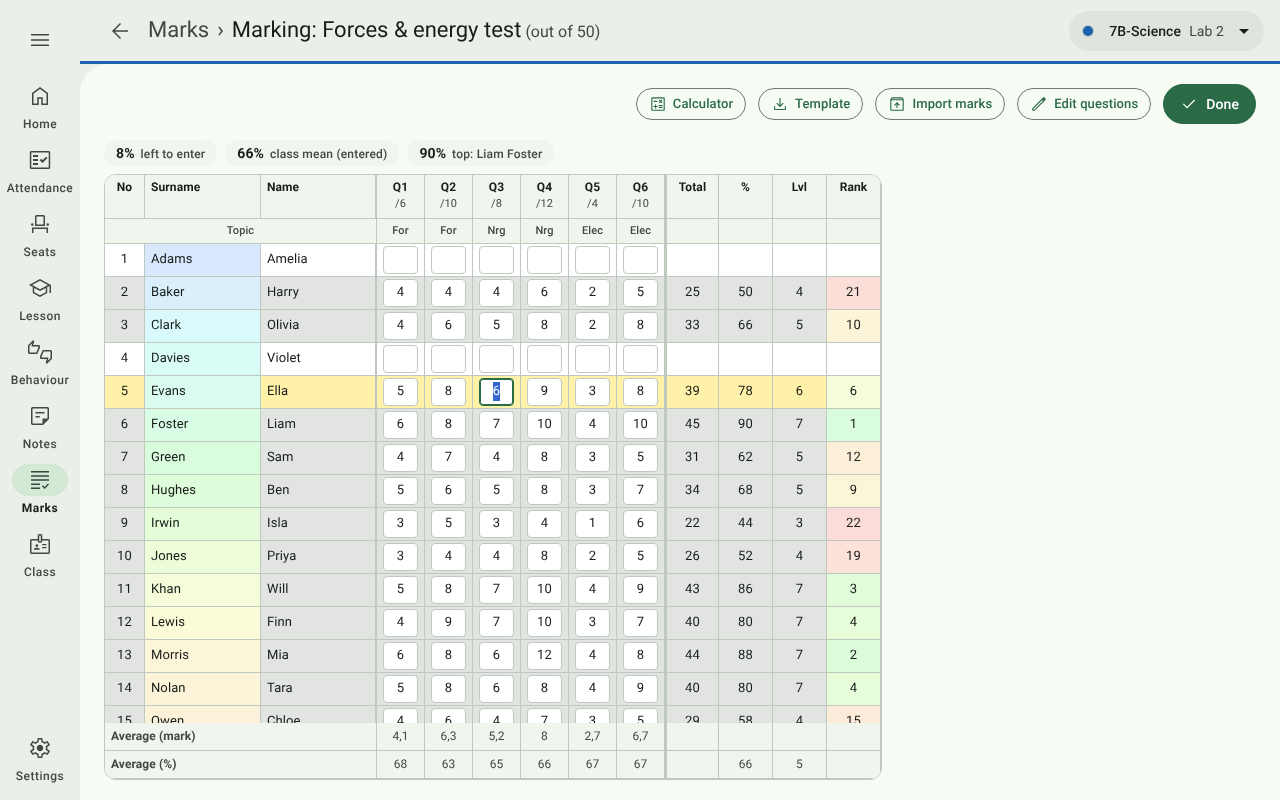
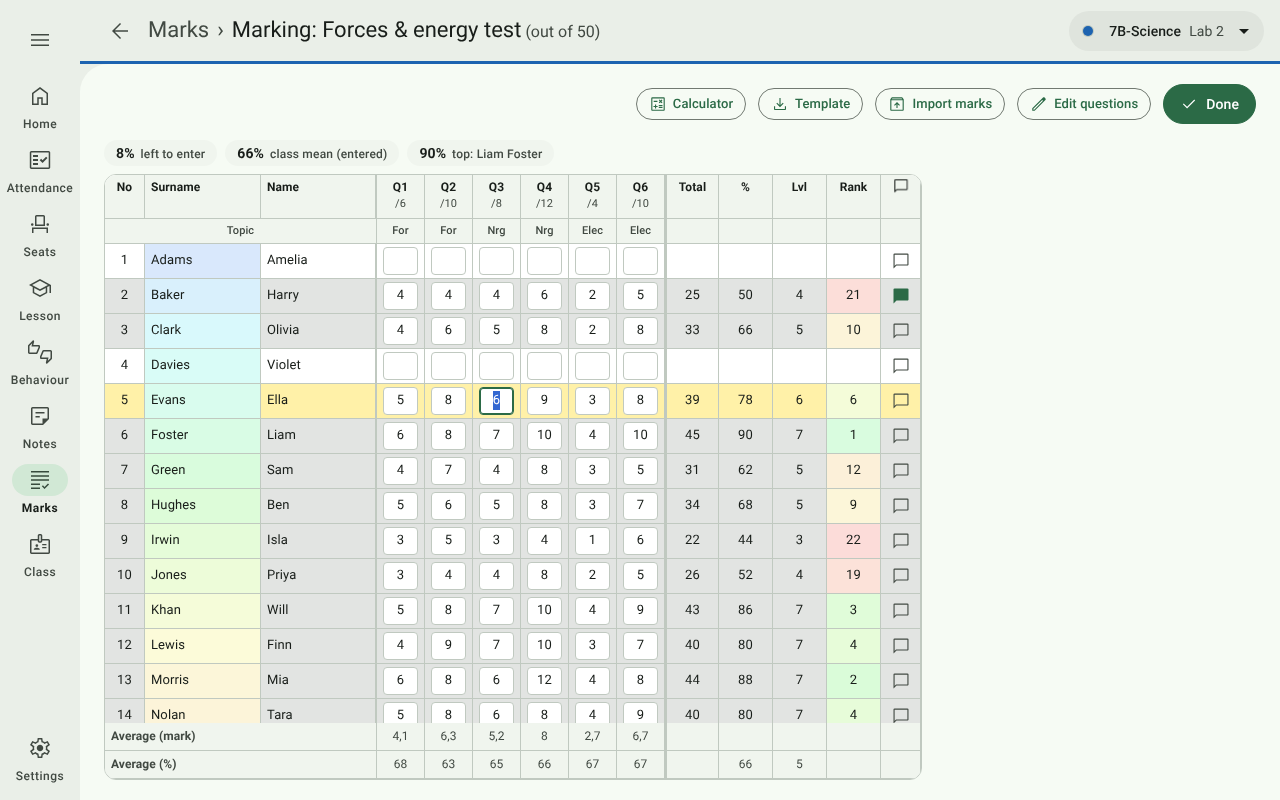
A comment on each student's paper from the per-question marking grid
- A speech-bubble button at the end of every row (frozen at the right edge,
  after Rank) opens a small box for a comment on that student's paper: Save
  (or Ctrl + Enter), Clear, Cancel. A filled bubble shows there's a comment,
  and its tooltip shows it. In the read-only View, only rows with a comment
  have the bubble, which shows it without editing.
- Kept in marks.csv's comment column, so it shows wherever comments already
  do: the View, the student dashboard and the spreadsheet export.
- Clearing all of a student's question marks no longer drops their marks.csv
  row while it still holds a comment.
- User guide (Marks › Entering marks: per question) and pictures.

Claude-Session: https://claude.ai/code/session_01K8jgxpQnUjFrYWzNQYwjn7

Changed region(s): [[0.1875, 0.3125, 0.7188, 0.9062], [0.0625, 0.3125, 0.1562, 0.9062], [0.6875, 0.2188, 0.7188, 0.25]]

diff --git a/src/components/marks/QuestionGrid.tsx b/src/components/marks/QuestionGrid.tsx
@@ -1,4 +1,4 @@
-import { type KeyboardEvent as ReactKeyboardEvent, useMemo, useRef } from "react";
+import { type KeyboardEvent as ReactKeyboardEvent, useMemo, useRef, useState } from "react";
 import { useApp, useAppPick } from "../../store/appStore";
 import { Assessment, Mark, QuestionMark, studentName, sortByName } from "../../lib/types";
 import {
@@ -17,6 +17,7 @@ import MarkSheetTools from "../MarkSheetTools";
 import Icon from "../Icon";
 import StatTile from "../StatTile";
 import MarkCalculator, { CalculatorButton, useCalculatorShown } from "./MarkCalculator";
+import MarkCommentDialog from "./MarkCommentDialog";
 
 /**
  * Clamp a typed grid cell to [0, max], mirroring the reference app: over-max or
@@ -60,13 +61,20 @@ export default function QuestionGrid({
   /** After marks were imported from a spreadsheet. */
   onImported: () => void;
 }) {
-  const { students, questionMarks, topics, userPrefs, assessmentQuestions } = useAppPick(
+  const { students, questionMarks, topics, userPrefs, assessmentQuestions, marks } = useAppPick(
     "students",
     "questionMarks",
     "topics",
     "userPrefs",
     "assessmentQuestions",
+    "marks",
   );
+  // Each student's comment on this test (marks.csv), and whose comment box is open.
+  const comments = useMemo(
+    () => new Map(marks.filter((m) => m.assessmentId === assessment.id && m.comment).map((m) => [m.studentId, m.comment])),
+    [marks, assessment.id],
+  );
+  const [commentFor, setCommentFor] = useState<string | null>(null);
   const scale = userPrefs.gradeScale;
   const scaleInfo = GRADE_SCALES[scale];
   const questions = useMemo(
@@ -105,11 +113,26 @@ export default function QuestionGrid({
     const total = mine.reduce((s, m) => s + (m.mark as number), 0);
     const existing = store.marks.find((m) => m.assessmentId === assessment.id && m.studentId === studentId);
     const restMarks = store.marks.filter((m) => !(m.assessmentId === assessment.id && m.studentId === studentId));
+    const comment = existing?.comment ?? "";
+    // No marks left: the row goes, unless it still holds a comment.
     const nextMarks: Mark[] =
       mine.length === 0
-        ? restMarks
-        : [...restMarks, { assessmentId: assessment.id, studentId, mark: total, comment: existing?.comment ?? "" }];
+        ? comment
+          ? [...restMarks, { assessmentId: assessment.id, studentId, mark: null, comment }]
+          : restMarks
+        : [...restMarks, { assessmentId: assessment.id, studentId, mark: total, comment }];
     void store.setMarks(nextMarks);
+  };
+
+  // Save (or, with "", clear) a student's comment on this test, keeping their mark.
+  const saveComment = (studentId: string, comment: string) => {
+    const store = useApp.getState();
+    const existing = store.marks.find((m) => m.assessmentId === assessment.id && m.studentId === studentId);
+    const rest = store.marks.filter((m) => m !== existing);
+    const mark = existing?.mark ?? null;
+    void store.setMarks(
+      mark === null && !comment ? rest : [...rest, { assessmentId: assessment.id, studentId, mark, comment }],
+    );
   };
 
   const focusCell = (r: number, c: number) => cells.current[r]?.[c]?.focus();
@@ -215,7 +238,7 @@ export default function QuestionGrid({
 
       <div className="marking-body">
         <div className="mark-grid-wrap">
-          <table className={`mark-grid ${readOnly ? "read-only" : ""}`}>
+          <table className={`mark-grid with-comment ${readOnly ? "read-only" : ""}`}>
             <thead>
               <tr>
                 <th className="col-no sticky-left">No</th>
@@ -233,6 +256,9 @@ export default function QuestionGrid({
                   {scaleInfo.short}
                 </th>
                 <th className="col-total sticky-right">Rank</th>
+                <th className="col-comment-btn sticky-right comment" title="A comment on the student's paper">
+                  <Icon name="chat_bubble" size={16} label="Comment" />
+                </th>
               </tr>
               <tr className="topic-row">
                 <th className="sticky-left" colSpan={3}>
@@ -247,6 +273,7 @@ export default function QuestionGrid({
                 <th className="sticky-right third"></th>
                 <th className="sticky-right second"></th>
                 <th className="sticky-right"></th>
+                <th className="sticky-right comment"></th>
               </tr>
             </thead>
             <tbody>
@@ -302,12 +329,29 @@ export default function QuestionGrid({
                     <td className="col-total sticky-right" style={rank != null ? { background: rankTint.get(s.id) } : undefined}>
                       {rank ?? ""}
                     </td>
+                    <td className="col-comment-btn sticky-right comment">
+                      {(() => {
+                        const comment = comments.get(s.id) ?? "";
+                        // In the read-only View only a row with a comment has the button.
+                        if (readOnly && !comment) return null;
+                        return (
+                          <button
+                            className={`small icon-only comment-btn ${comment ? "has-comment" : ""}`}
+                            title={comment || `Add a comment for ${studentName(s)}`}
+                            aria-label={comment ? `Comment for ${studentName(s)}: ${comment}` : `Add a comment for ${studentName(s)}`}
+                            onClick={() => setCommentFor(s.id)}
+                          >
+                            <Icon name="chat_bubble" filled={!!comment} size={18} />
+                          </button>
+                        );
+                      })()}
+                    </td>
                   </tr>
                 );
               })}
               {nRows === 0 && (
                 <tr>
-                  <td colSpan={nCols + 7} className="empty-row start">
+                  <td colSpan={nCols + 8} className="empty-row start">
                     Add students to the class first.
                   </td>
                 </tr>
@@ -327,6 +371,7 @@ export default function QuestionGrid({
                 <td className="sticky-right third"></td>
                 <td className="sticky-right second"></td>
                 <td className="sticky-right"></td>
+                <td className="sticky-right comment"></td>
               </tr>
               <tr className="avg-row">
                 <th className="sticky-left" colSpan={3}>
@@ -341,12 +386,27 @@ export default function QuestionGrid({
                 <td className="sticky-right third">{classMean ?? ""}</td>
                 <td className="sticky-right second">{classMean !== null ? gradeForPct(classMean, scale) : ""}</td>
                 <td className="sticky-right"></td>
+                <td className="sticky-right comment"></td>
               </tr>
             </tfoot>
           </table>
         </div>
         {showCalculator && <MarkCalculator onClose={() => setCalculator(false)} />}
       </div>
+      {commentFor &&
+        (() => {
+          const student = sorted.find((x) => x.id === commentFor);
+          return student ? (
+            <MarkCommentDialog
+              student={studentName(student)}
+              test={assessment.title}
+              initial={comments.get(commentFor) ?? ""}
+              readOnly={readOnly}
+              onSave={(text) => saveComment(commentFor, text)}
+              onClose={() => setCommentFor(null)}
+            />
+          ) : null;
+        })()}
     </div>
   );
 }

diff --git a/e2e/marks.e2e.ts b/e2e/marks.e2e.ts
@@ -131,3 +131,43 @@ test("the rank column is tinted green for the top rank to red for the lowest", a
   expect(rN).toBeGreaterThan(gN); // red
   expect(rN).toBeGreaterThan(bN);
 });
+
+test("a comment on a student's paper, from the button at the end of their row", async ({ page }) => {
+  await nav(page, "Marks");
+  await page.locator("tr", { hasText: "Forces & energy test" }).getByRole("button", { name: "Enter marks" }).click();
+  await reveal(page);
+  const row = page.locator(".mark-grid tbody tr").first();
+  const button = row.locator("button.comment-btn");
+  await expect(button).not.toHaveClass(/has-comment/);
+
+  await button.click();
+  const dialog = page.locator(".modal.mark-comment-modal");
+  await dialog.locator("textarea").fill("Left Q3 blank; ask about it in class.");
+  await dialog.getByRole("button", { name: "Save" }).click();
+  await expect(dialog).toHaveCount(0);
+  await expect(button).toHaveClass(/has-comment/);
+  await expect(button).toHaveAttribute("title", "Left Q3 blank; ask about it in class.");
+
+  // Clearing every mark in the row keeps the comment.
+  const cells = row.locator("input.grid-input");
+  const n = await cells.count();
+  for (let c = 0; c < n; c++) await cells.nth(c).fill("");
+  await button.click();
+  await expect(dialog.locator("textarea")).toHaveValue("Left Q3 blank; ask about it in class.");
+  await dialog.getByRole("button", { name: "Cancel" }).click();
+
+  // The read-only View shows it, and only rows with a comment have the button.
+  await page.getByRole("button", { name: "Done" }).click();
+  await page.locator("tr", { hasText: "Forces & energy test" }).getByRole("button", { name: "View" }).click();
+  await expect(page.locator(".mark-grid tbody button.comment-btn")).toHaveCount(1);
+  await page.locator(".mark-grid tbody button.comment-btn").click();
+  await expect(dialog).toContainText("Left Q3 blank; ask about it in class.");
+  await expect(dialog.locator("textarea")).toHaveCount(0);
+  await dialog.getByRole("button", { name: "Close" }).click();
+
+  // Clear takes it away.
+  await page.getByRole("button", { name: "Enter marks" }).click();
+  await button.click();
+  await dialog.getByRole("button", { name: "Clear" }).click();
+  await expect(button).not.toHaveClass(/has-comment/);
+});

diff --git a/src/components/marks/MarkCommentDialog.tsx b/src/components/marks/MarkCommentDialog.tsx
@@ -1,0 +1,79 @@
+import { useState } from "react";
+import Modal from "../Modal";
+
+/**
+ * A student's comment on one test (marks.csv's comment column), from the
+ * per-question marking grid: Save, Clear or Cancel while marking; just Close
+ * in the read-only View. Ctrl + Enter saves.
+ */
+export default function MarkCommentDialog({
+  student,
+  test,
+  initial,
+  readOnly = false,
+  onSave,
+  onClose,
+}: {
+  student: string;
+  test: string;
+  initial: string;
+  readOnly?: boolean;
+  /** The comment to keep; "" clears it. */
+  onSave: (text: string) => void;
+  onClose: () => void;
+}) {
+  const [text, setText] = useState(initial);
+  const save = () => {
+    onSave(text.trim());
+    onClose();
+  };
+  return (
+    <Modal title={`Comment — ${student}`} onClose={onClose} className="mark-comment-modal">
+      <p className="muted dialog-body">{test}</p>
+      {readOnly ? (
+        <p className="mark-comment-text">{initial}</p>
+      ) : (
+        <textarea
+          autoFocus
+          rows={4}
+          value={text}
+          aria-label={`Comment for ${student}`}
+          placeholder="e.g. Left Q3 blank; ask about it in class."
+          onChange={(e) => setText(e.target.value)}
+          onKeyDown={(e) => {
+            if (e.key === "Enter" && (e.ctrlKey || e.metaKey)) {
+              e.preventDefault();
+              save();
+            }
+          }}
+        />
+      )}
+      <div className="actions">
+        {readOnly ? (
+          <button className="primary" onClick={onClose}>
+            Close
+          </button>
+        ) : (
+          <>
+            {initial && (
+              <button
+                className="danger"
+                onClick={() => {
+                  onSave("");
+                  onClose();
+                }}
+              >
+                Clear
+              </button>
+            )}
+            <span className="spacer" />
+            <button onClick={onClose}>Cancel</button>
+            <button className="primary" onClick={save} disabled={text.trim() === initial.trim()} title="Save (Ctrl + Enter)">
+              Save
+            </button>
+          </>
+        )}
+      </div>
+    </Modal>
+  );
+}

diff --git a/src/styles.css b/src/styles.css
@@ -1100,6 +1100,17 @@ button.icon-choice.on { background: var(--md-secondary-container); color: var(--
 .mark-grid .sticky-right.third { right: 108px; }
 .mark-grid .sticky-right.fourth { right: 162px; }
 .mark-grid .sticky-right.fourth, .mark-grid .sticky-right.divider { border-left: 2px solid var(--border); }
+/* The per-question grid's comment column takes the right edge; the totals move in by its width. */
+.mark-grid .col-comment-btn { width: 40px; min-width: 40px; padding: 2px; }
+.mark-grid.with-comment .sticky-right { right: 40px; }
+.mark-grid.with-comment .sticky-right.comment { right: 0; }
+.mark-grid.with-comment .sticky-right.second { right: 94px; }
+.mark-grid.with-comment .sticky-right.third { right: 148px; }
+.mark-grid.with-comment .sticky-right.fourth { right: 202px; }
+.mark-grid button.comment-btn { width: 32px; min-width: 32px; min-height: 30px; height: 30px; border-color: transparent; color: var(--text-dim); }
+.mark-grid button.comment-btn.has-comment { color: var(--md-primary); }
+.mark-comment-modal textarea { width: 100%; resize: vertical; }
+.mark-comment-text { white-space: pre-wrap; margin: 0; }
 .mark-grid tfoot .avg-row th, .mark-grid tfoot .avg-row td { background: var(--md-surface-container-low); color: var(--text-dim); font-size: 12px; font-variant-numeric: tabular-nums; }
 .mark-grid tfoot .sticky-left { background: var(--md-surface-container-low); text-align: left; }
 

diff --git a/src/components/Icon.tsx b/src/components/Icon.tsx
@@ -109,6 +109,8 @@ const PATHS = {
   edit_note: "M160-410v-60h300v60H160Zm0-165v-60h470v60H160Zm0-165v-60h470v60H160Zm360 580v-123l221-220q9-9 20-13t22-4q12 0 23 4.5t20 13.5l37 37q9 9 13 20t4 22q0 11-4.5 22.5T862.09-380L643-160H520Zm300-263-37-37 37 37ZM580-220h38l121-122-18-19-19-18-122 121v38Zm141-141-19-18 37 37-18-19Z",
   history_edu: "M321-160q-24 0-42-18t-18-42v-100h124v-127q-38 3-76-10.5T241-500v-58h-50L60-689q36-34 86-55.5T248-766q30 0 68.5 9.5T385-726v-74h455v535q0 44-30.5 74.5T735-160H321Zm124-160h245v55q0 20 12.5 32.5T735-220q20 0 32.5-12.5T780-265v-475H445v57l241 241v43h-43L517-525l-17 20q-13 15-26 23t-29 15v147ZM218-618h83v89q17 11 33.5 16.5T368-507q25 0 51-13.5t38-27.5l17-20-69-69q-32-32-72-50.5T248-706q-27 0-49 6.5T154-682l64 64Zm412 358H321v40h323q-6-6-10-16.5t-4-23.5Zm-309 40v-40 40Z",
   donut_large: "M452-83Q294-95 187.5-208.5T81-480q0-158 106.5-271.5T452-877v102q-115 11-192.5 95.5T183-480q1 115 77.5 199.5T452-185v102Zm60 0v-102q106-9 179-84t86-181h102q-11 149-114.5 253T512-83Zm265-427q-12-106-85.5-181T512-776v-102q148 11 252 115t115 253H777Z",
+  chat_bubble: "M80-80v-740q0-24 18-42t42-18h680q24 0 42 18t18 42v520q0 24-18 42t-42 18H240L80-80Zm134-220h606v-520H140v600l74-80Zm-74 0v-520 520Z",
+  chat_bubble_fill: "M80-80v-740q0-24 18-42t42-18h680q24 0 42 18t18 42v520q0 24-18 42t-42 18H240L80-80Z",
 } as const;
 
 export type IconName = keyof typeof PATHS;

diff --git a/scripts/screenshots/guide.shots.ts b/scripts/screenshots/guide.shots.ts
@@ -388,6 +388,11 @@ test("marks", async ({ page }) => {
   // The per-question grid of the demo test, mid-way through a row.
   await page.locator("tr", { hasText: "Forces & energy test" }).getByRole("button", { name: "Enter marks" }).click();
   await reveal(page);
+  // A comment on one student's paper: its speech bubble fills in.
+  await page.locator(".mark-grid tbody tr").nth(1).locator("button.comment-btn").click();
+  await modal(page).locator("textarea").fill("Rushed the last question; ran out of time.");
+  await shotOf(page, modal(page), "marking-comment", 2);
+  await modal(page).getByRole("button", { name: "Save" }).click();
   await page.locator(".mark-grid tbody tr").nth(4).locator("input.grid-input").nth(2).focus();
   await shot(page, "marking-grid");
   await page.getByRole("button", { name: "Done" }).click();

diff --git a/docs/user-guide/07-marks.md b/docs/user-guide/07-marks.md
@@ -110,6 +110,15 @@ question's maximum (e.g. */6*) and topic short label under its number.
 - The line above the students shows the share still **left to enter**, the **class mean** so far and the **top**
   student.
 - The **Average (mark)** and **Average (%)** rows at the bottom show how each question went.
+- The **speech bubble** at the end of each row adds a **comment** on that student's paper (e.g. *Left Q3 blank;
+  ask about it in class*).
+  - Type it and press **Save** (or **Ctrl + Enter**). **Clear** removes it.
+
+    ![A comment on a student's paper](../images/marking-comment.png)
+
+  - A filled bubble means the student has a comment; point at it to read it.
+  - The comment stays even if you clear the student's marks.
+  - It shows when you view the results, on the student's dashboard and in the spreadsheet export.
 - Only the student rows scroll; the title, headings and average rows stay in place.
 - **Calculator** shows a small calculator beside the grid (see [The calculator](#the-calculator)).
 
@@ -141,7 +150,8 @@ colleague — without any risk of changing a mark.
 
 - For a **single-mark** test: each student's mark, %, level or symbol, rank (tinted as above) and comment, with the
   class figures above the list and the average mark and % below it.
-- For a test **marked per question**: the same grid as marking, with plain numbers.
+- For a test **marked per question**: the same grid as marking, with plain numbers. A student with a comment has a
+  filled speech bubble at the end of their row; tap it to read the comment.
 
 ![The buttons on a results page](../images/marks-view-toolbar.png)
 
